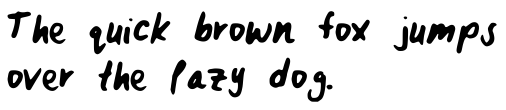
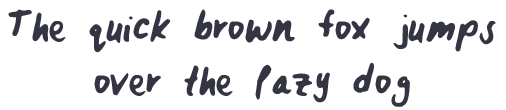
changed colors and made name in my font

diff --git a/index.html b/index.html
@@ -23,7 +23,11 @@
     </nav>
     <div class="container">
       <div class="name">
-        <center><h1><a href="index.html" class="h">Joshua Jackson Boggs</a></h1></center>
+        <center>
+          <a href="index.html">
+            <img src="images/JJB.png" alt="Joshua Jackson Boggs" style="width:75%;">
+          </a>
+        </center>
       </div><!-- /.blurb -->
     </div><!-- /.container -->
     <footer>
@@ -46,7 +50,7 @@
       </center>
       <center id="font" style="display:none">
         <a href="www.columbia.edu/~jjb2175/Joshua_Jackson.ttf">
-          <img src="images/font.png" alt="font">
+          <img src="images/font.png" alt="font" style="width:60%;">
         </a>
       </center>
     </footer>

diff --git a/css/main.css b/css/main.css
@@ -1,6 +1,7 @@
 body {
     margin: 60px auto;
     width: 70%;
+    background-color: #EEEDF2;
 }
 nav ul, footer ul {
     font-family:'Helvetica', 'Arial', 'Sans-Serif';
@@ -63,4 +64,7 @@ ul.posts {
 
 ul.posts li {
     list-style: none;
+}
+div.name {
+    img { width:75%; }
 }
